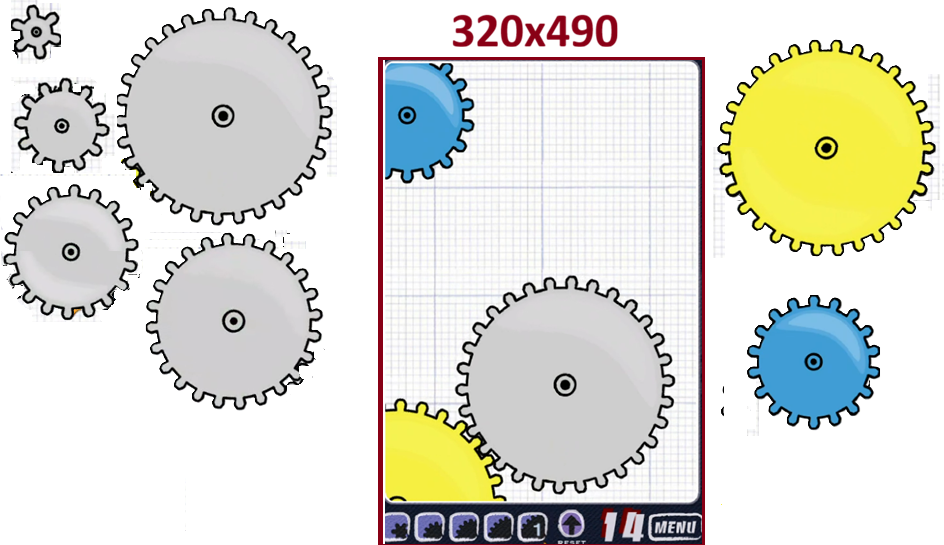
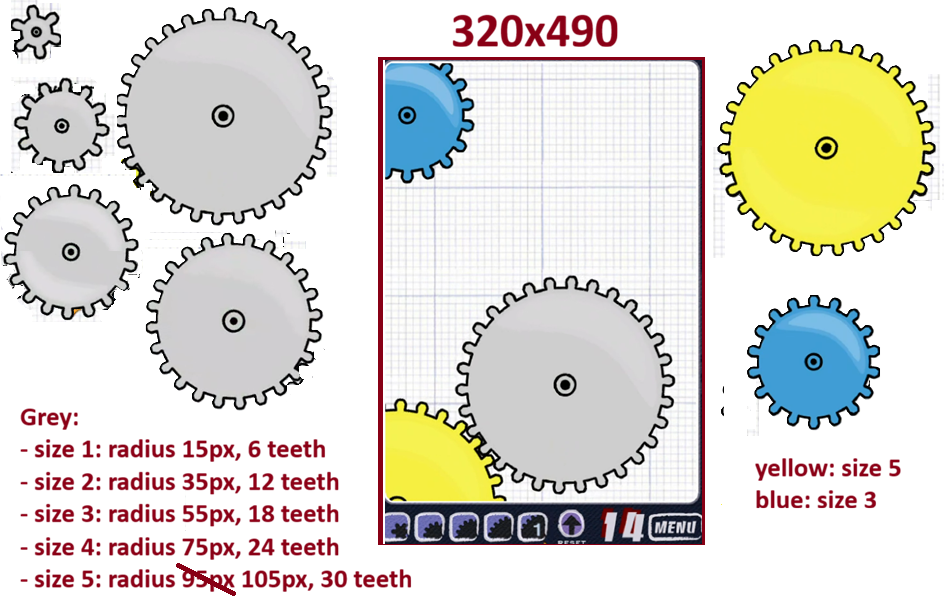
fix 40 43 45

diff --git a/otherlevels.js b/otherlevels.js
@@ -1,5 +1,15 @@
-// this file will add levels 121-150 from github
+// fix levels 1-120
 
+// 40
+levels[40] = {"n1":"0","n2":"1","n3":"1","n4":"1","n5":"0","yellow":[159,480],"blue":[[129,63,55]],"red":[[76,165,147,194],[200,30,100,120]],"pink":[284,136,-126,130,221,201,156,134,-126,130,93,199]};
+
+// 43
+levels[43] = {"n1":"5","n2":"0","n3":"0","n4":"0","n5":"1","yellow":[157,532],"blue":[[44,37,15],[40,275,15],[295,160,15]],"red":[[127,282,63,128]],"pink":[]};
+
+// 45
+levels[45] = {"n1":"3","n2":"2","n3":"0","n4":"1","n5":"0","yellow":[-2,-3],"blue":[[296,172,55]],"red":[[161,281,-128,-262]],"pink":[]},
+
+// add levels 121-150
 levels[120] = {"n1":"5","n2":"0","n3":"0","n4":"0","n5":"0","yellow":[-9,305],"blue":[
     [293,386,15],
     [95,208,15],

diff --git a/index.html b/index.html
@@ -72,7 +72,7 @@ input { padding: 0; font-family: calibri, arial, sans-serif; font-size: 12px; }
 </div>
 <div id=tmp>
 </div>
-<audio src=music.mp3 id=music volume="0.2" autoplay loop hidden>
+<audio src=music.mp3 id=music volume="0.2" autoplay loop hidden></audio>
 
 <script src=globals.js></script>
 <script src=helpers.js></script>
@@ -85,6 +85,7 @@ input { padding: 0; font-family: calibri, arial, sans-serif; font-size: 12px; }
 <script src=touch.js></script>
 <script src="https://cdnjs.cloudflare.com/ajax/libs/ethers/5.7.2/ethers.umd.min.js"></script>
 <script src=//xem.github.io/gamedevjs26/otherlevels.js></script>
+<script src=otherlevels.js></script>
 <script>
 
 if(window.Wavedash){
